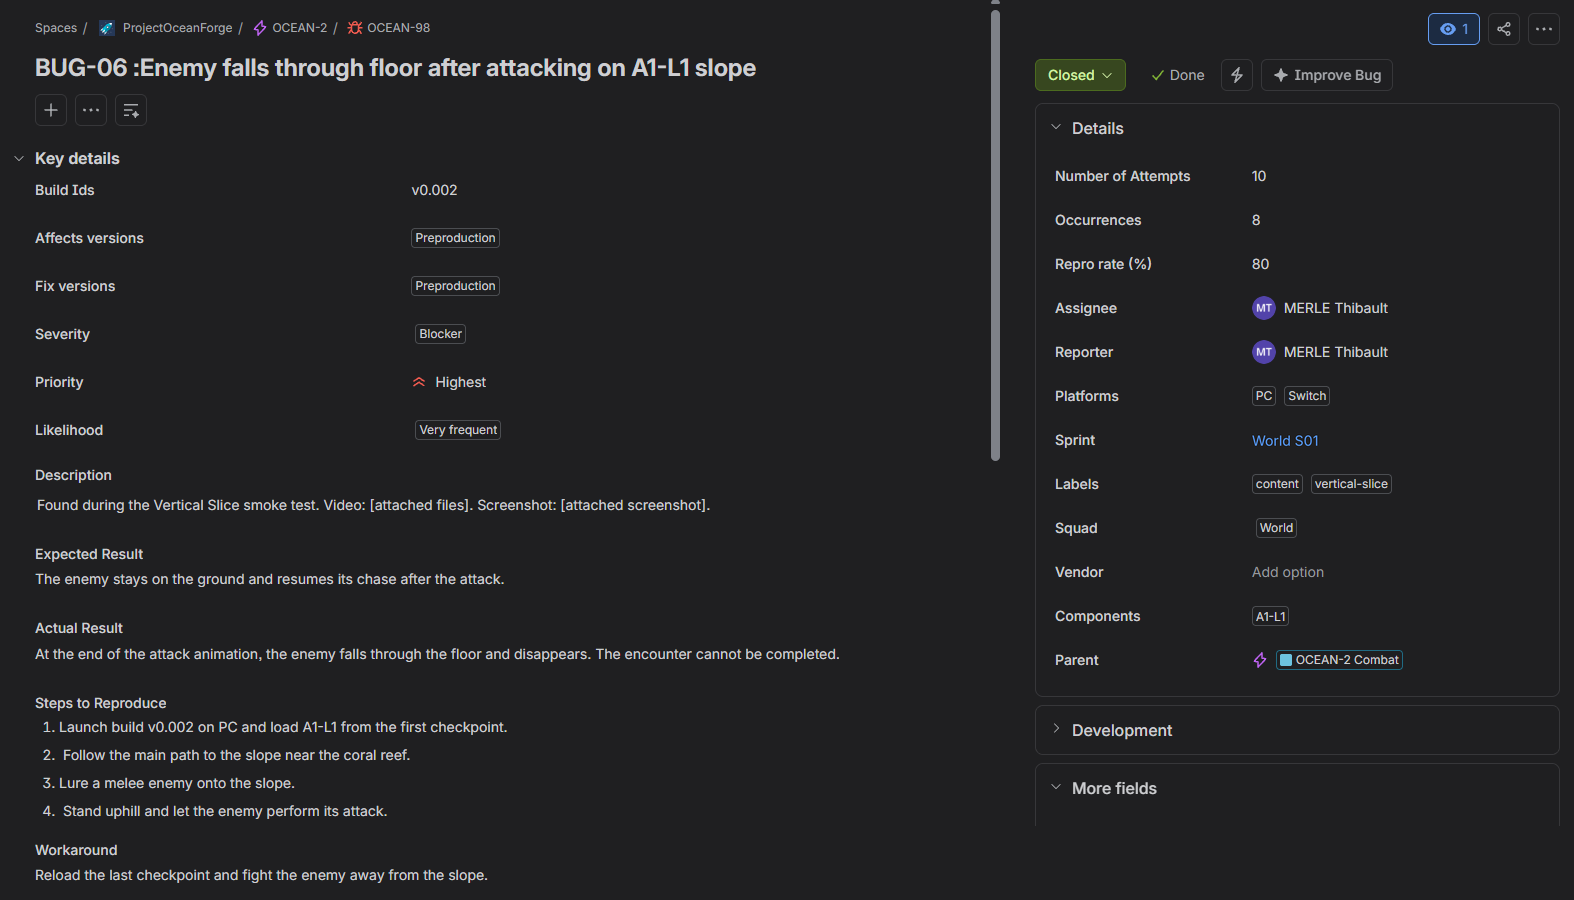
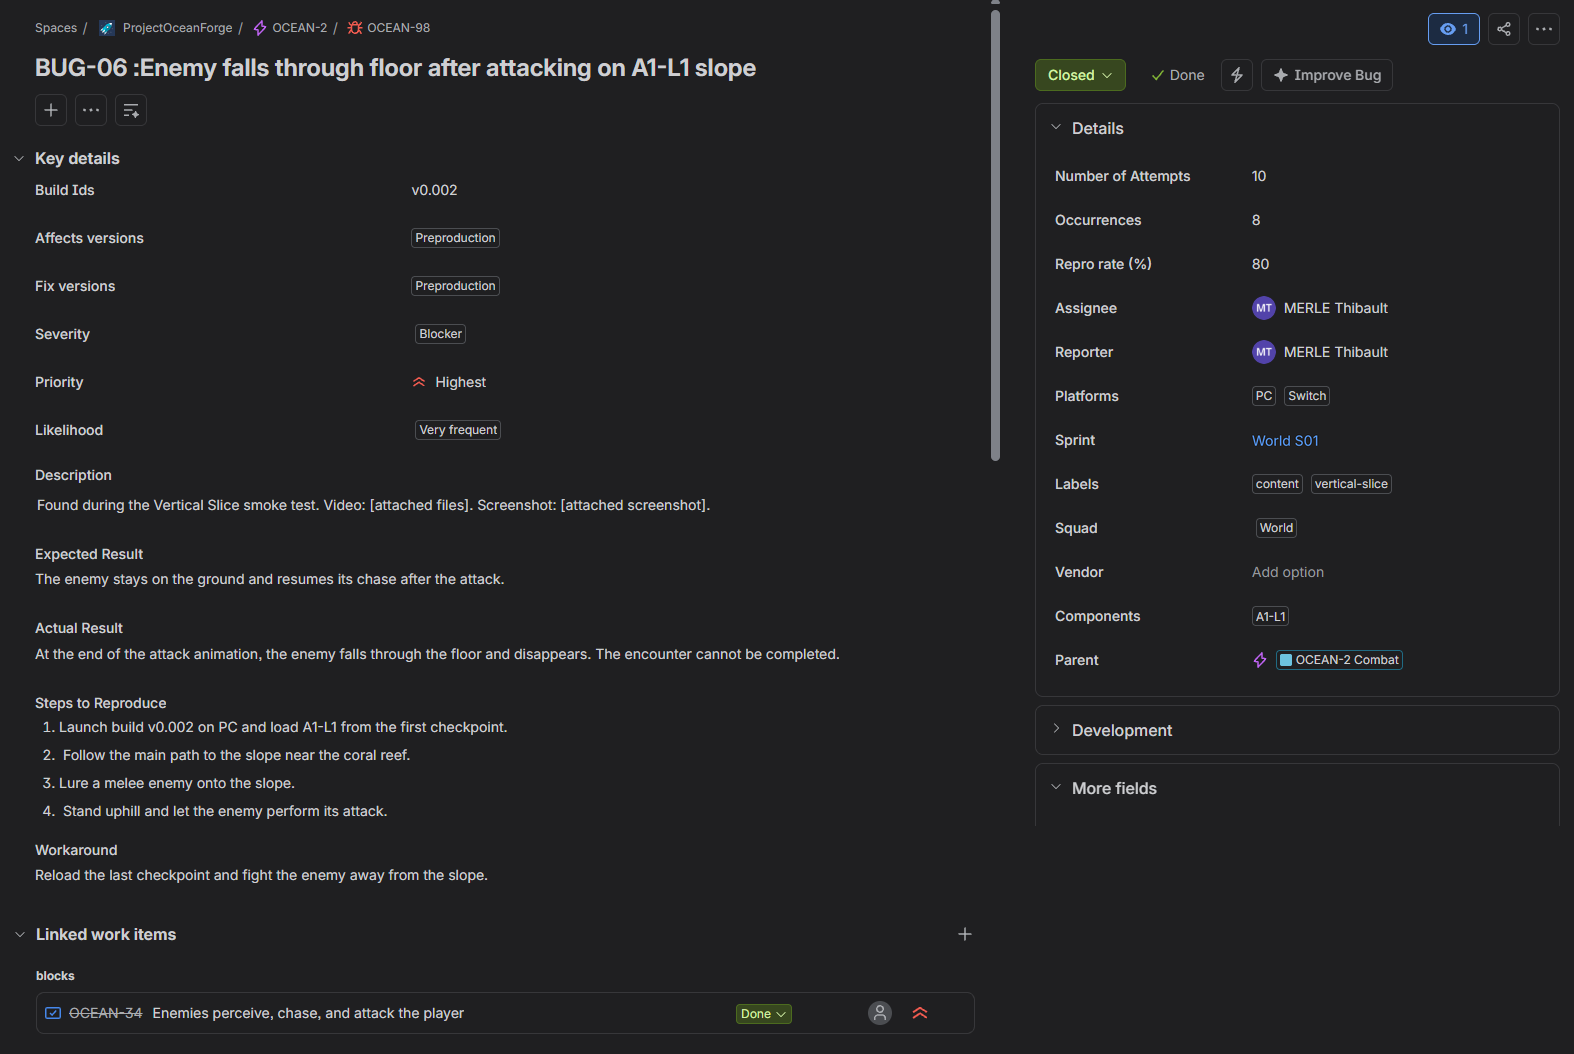
Projet Jira : lien « blocks » vers OCEAN-34 ajouté sous la capture du ticket BUG-06, légende complétée
Claude-Session: https://claude.ai/code/session_01QtLoCRjyjnrE9a4PUV17cc

diff --git a/js/contenu.js b/js/contenu.js
@@ -316,7 +316,7 @@ const PROJECTS_FR = {
             LIGNE([
               T("J'ai ensuite retravaillé le ticket de bug en pensant à ses deux lecteurs : l'équipe QA, qui doit y trouver toutes les informations utiles à son travail, et le producer, qui doit pouvoir le lire rapidement. En m'appuyant sur *The Pocket Mentor for Video Game Testing*, de Harún H. Ali, j'ai ajouté des **champs dédiés**. Le ticket situe d'abord le bug : le numéro de build, la version où il a été vu et celle où il sera corrigé, et l'Epic qu'il touche. Il le décrit ensuite par le résultat attendu et le résultat obtenu. Le nombre d'essais et d'occurrences donne enfin le **taux de reproduction**, qui indique si le bug revient à chaque fois ou seulement de temps en temps."),
               T("Le ticket sépare aussi la **sévérité** de la **priorité**. La sévérité dit à quel point le jeu est cassé, la priorité dit dans quel ordre on corrige : un bug peut être grave mais rare, ou bénin mais permanent, et c'est au producer d'arbitrer entre les deux. Avec le responsable, que Jira affiche, on voit d'un coup d'œil **ce qui est cassé, à quel point, qui s'en charge et pour quelle version**. Sur la capture, je suis à la fois rapporteur et responsable, puisque je joue tous les rôles : dans une vraie équipe, le rapporteur serait le testeur, et le responsable le développeur qui corrige.")
-            ],[ IMG("images/jira-ticket-bug.png","Un bug bloquant reproduit 8 fois sur 10, corrigé et fermé : sévérité Blocker, priorité Highest, likelihood Very frequent") ]),
+            ],[ IMG("images/jira-ticket-bug.png","Un bug bloquant reproduit 8 fois sur 10, corrigé et fermé : sévérité Blocker, priorité Highest, likelihood Very frequent, et la Story qu'il bloquait") ]),
             LIGNE([
               T("Le likelihood n'est plus choisi à l'œil, ce qui le faisait varier d'un testeur à l'autre pour un même bug : une **automatisation** le déduit désormais du taux de reproduction. Dès que le nombre d'essais ou d'occurrences change, elle calcule le taux, l'écrit dans le ticket et choisit l'option : **Always à 100 %, Very frequent de 70 à 99 %, Sometimes de 30 à 69 %, Rarely en dessous**. Si les occurrences dépassent les essais, elle laisse le likelihood tel quel et signale l'erreur par un commentaire ; à 0 %, c'est au testeur de trancher. Le bug de la capture précédente, reproduit 8 fois sur 10, passe ainsi automatiquement en Very frequent.")
             ],[ IMG("images/jira-auto-repro.png","La règle du taux de reproduction : calcul, contrôle des valeurs, puis une branche par option de likelihood") ]),
@@ -661,7 +661,7 @@ const PROJECTS_EN = {
             LIGNE([
               T("I then reworked the bug ticket with its two readers in mind: the QA team, who need every useful detail right there, and the producer, who must be able to read it quickly. Drawing on *The Pocket Mentor for Video Game Testing* by Harún H. Ali, I added **dedicated fields**. The ticket first places the bug: the build number, the version where it was found and the one where it will be fixed, and the Epic it affects. It then describes it through the expected and actual results. Finally, the number of attempts and occurrences gives the **repro rate**, which shows whether the bug comes back every time or only now and then."),
               T("The ticket also separates **severity** from **priority**. Severity says how broken the game is, priority sets the order in which bugs are fixed: a bug can be severe but rare, or minor but permanent, and it is up to the producer to weigh the two. With the assignee, which Jira displays, you can see at a glance **what is broken, how badly, who is handling it and for which version**. In the screenshot I am both reporter and assignee, since I play every role; in a real team, the reporter would be the tester and the assignee the developer fixing the bug.")
-            ],[ IMG("images/jira-ticket-bug.png","A blocker bug reproduced 8 times out of 10, fixed and closed: Blocker severity, Highest priority, Very frequent likelihood") ]),
+            ],[ IMG("images/jira-ticket-bug.png","A blocker bug reproduced 8 times out of 10, fixed and closed: Blocker severity, Highest priority, Very frequent likelihood, and the Story it was blocking") ]),
             LIGNE([
               T("Likelihood is no longer picked by eye, which made it vary from one tester to another for the same bug: an **automation** now derives it from the repro rate. As soon as the number of attempts or occurrences changes, it calculates the rate, writes it into the ticket and picks the option: **Always at 100%, Very frequent from 70 to 99%, Sometimes from 30 to 69%, Rarely below that**. If occurrences exceed attempts, it leaves the likelihood unchanged and flags the error in a comment; at 0%, the decision stays with the tester. The bug in the previous screenshot, reproduced 8 times out of 10, is therefore set to Very frequent automatically.")
             ],[ IMG("images/jira-auto-repro.png","The repro rate rule: calculation, value check, then one branch per likelihood option") ]),

diff --git a/index.html b/index.html
@@ -24,7 +24,7 @@
 <meta property="og:locale" content="fr_FR">
 <meta property="og:locale:alternate" content="en_GB">
 <meta name="twitter:card" content="summary_large_image">
-<link rel="stylesheet" href="css/style.css?v=20261028-2025b">
+<link rel="stylesheet" href="css/style.css?v=20261028-2030b">
 </head>
 
 <body>
@@ -39,7 +39,7 @@
   <h2 id="h-legal" class="sr">Informations légales</h2><div class="legal-row" id="legal"></div>
 </div></footer>
 
-<script src="js/contenu.js?v=20261028-2025b"></script>
-<script src="js/app.js?v=20261028-2025b"></script>
+<script src="js/contenu.js?v=20261028-2030b"></script>
+<script src="js/app.js?v=20261028-2030b"></script>
 </body>
 </html>
